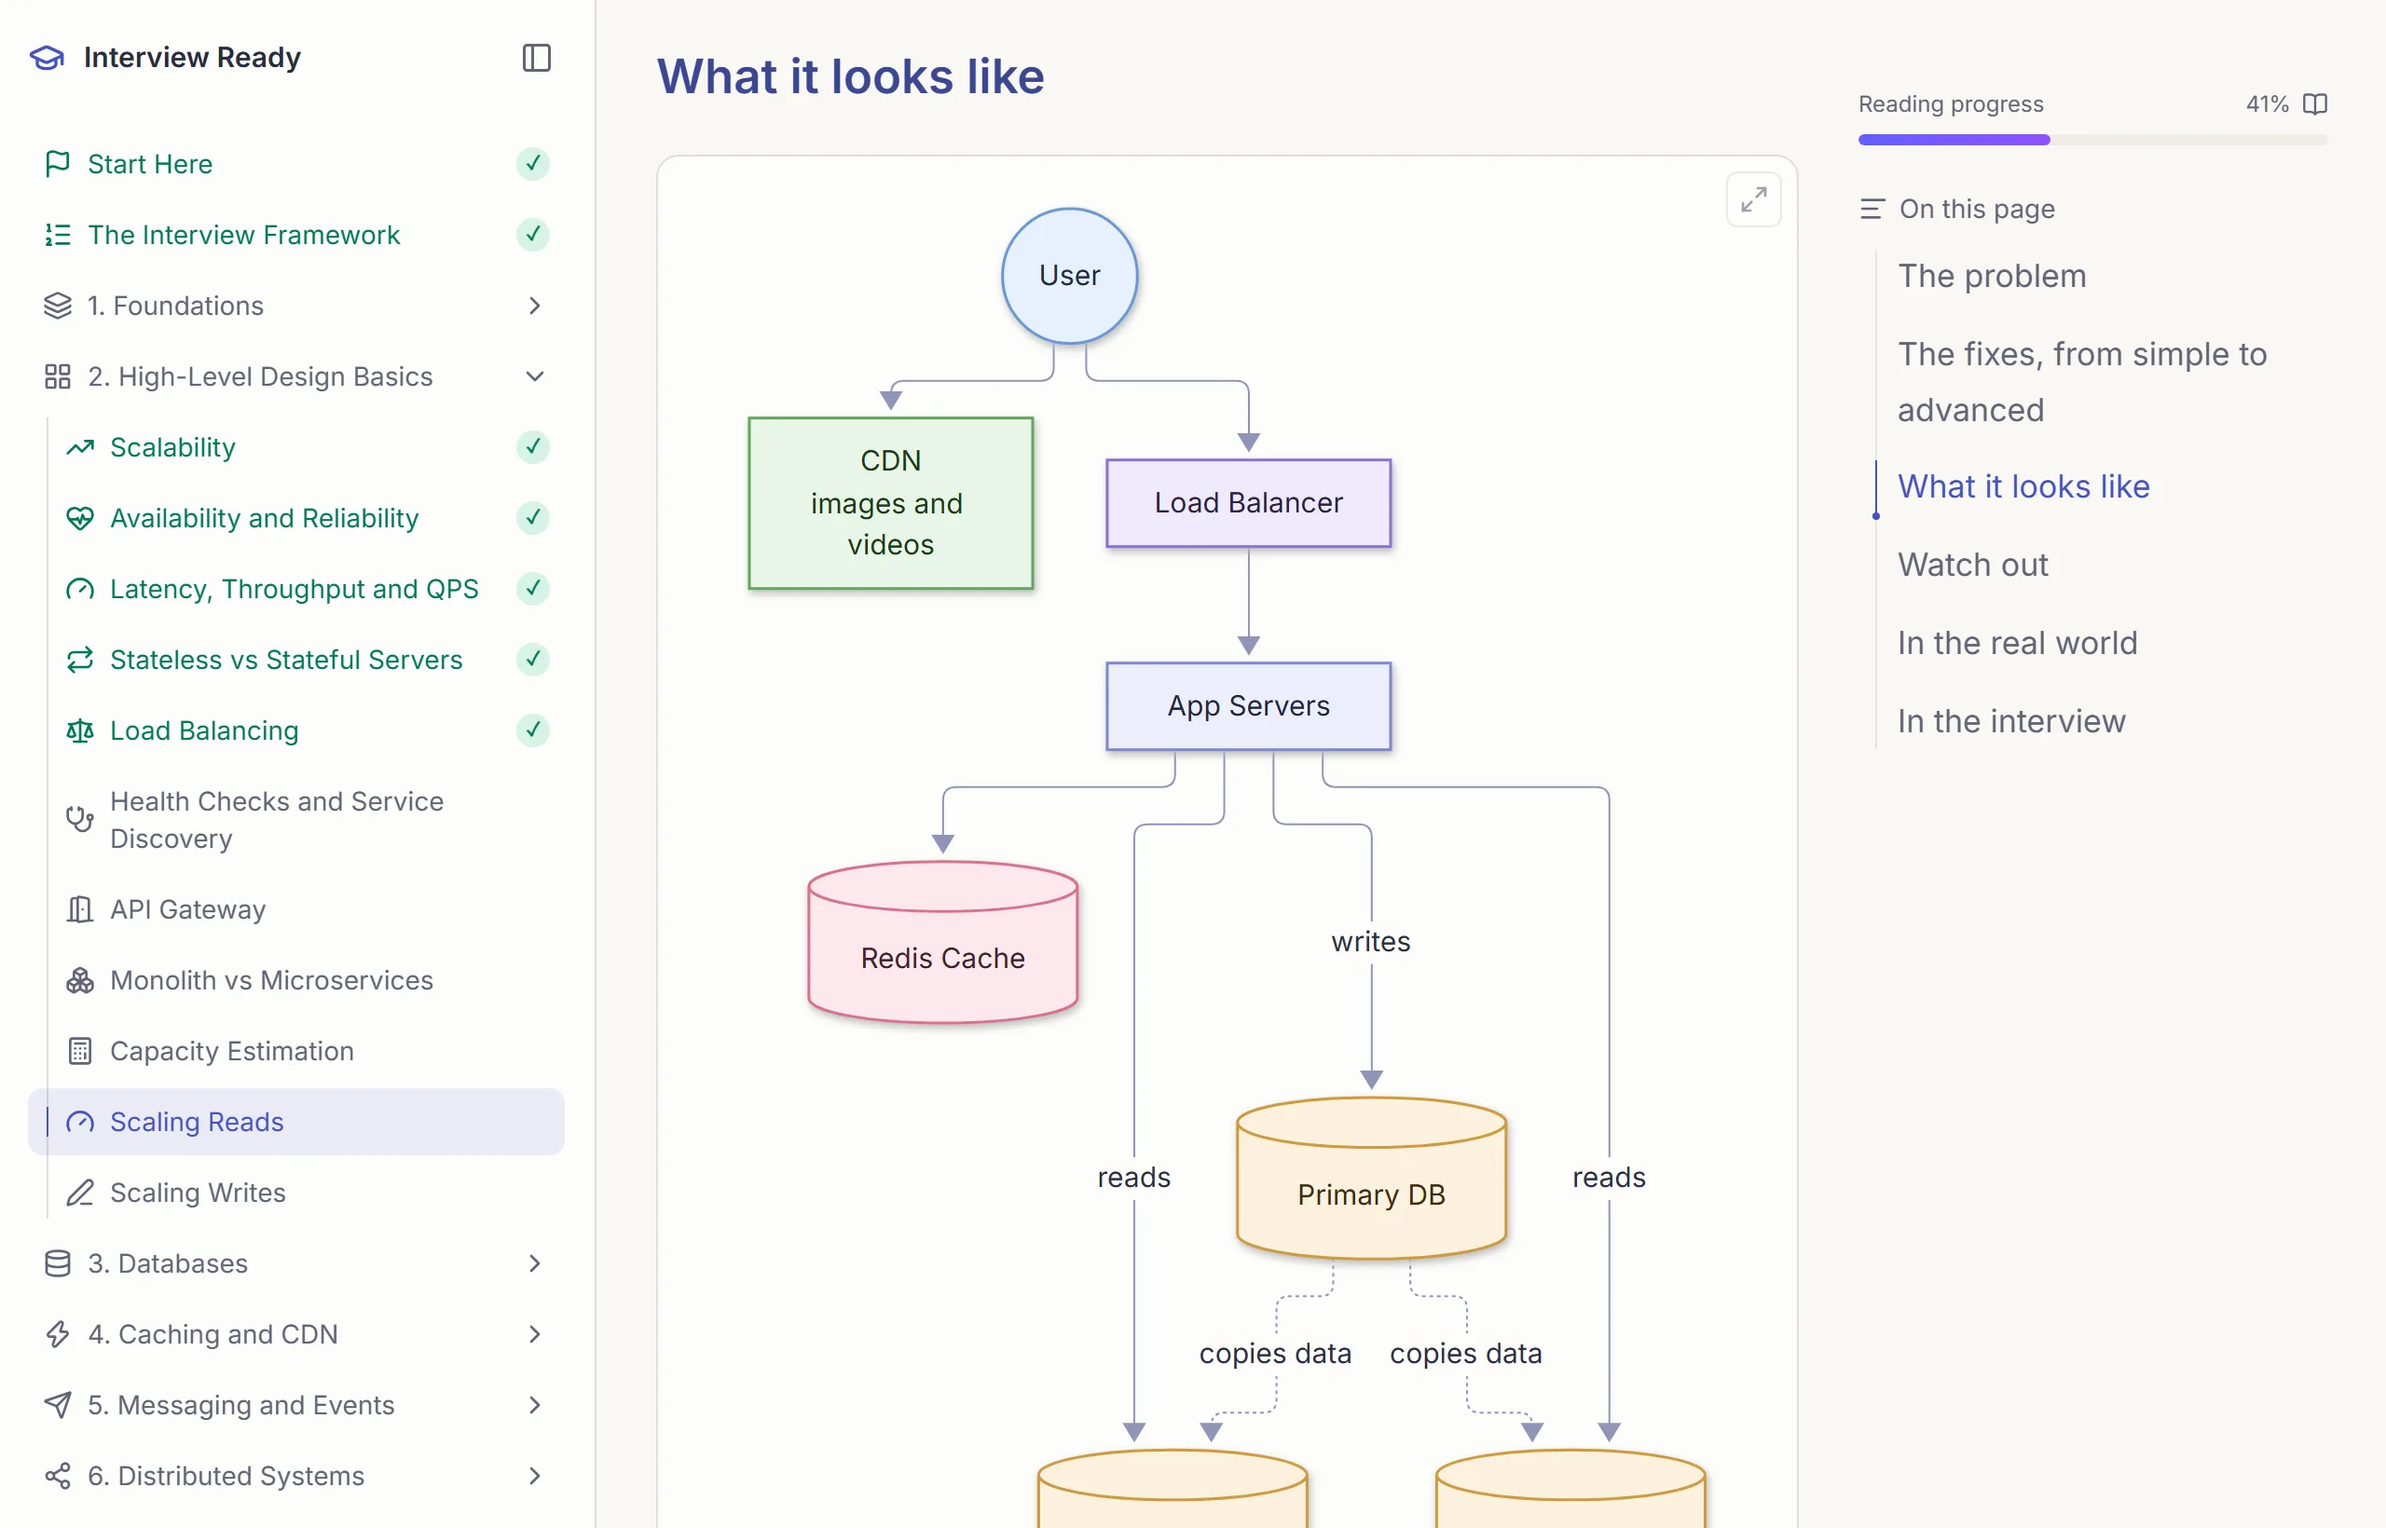
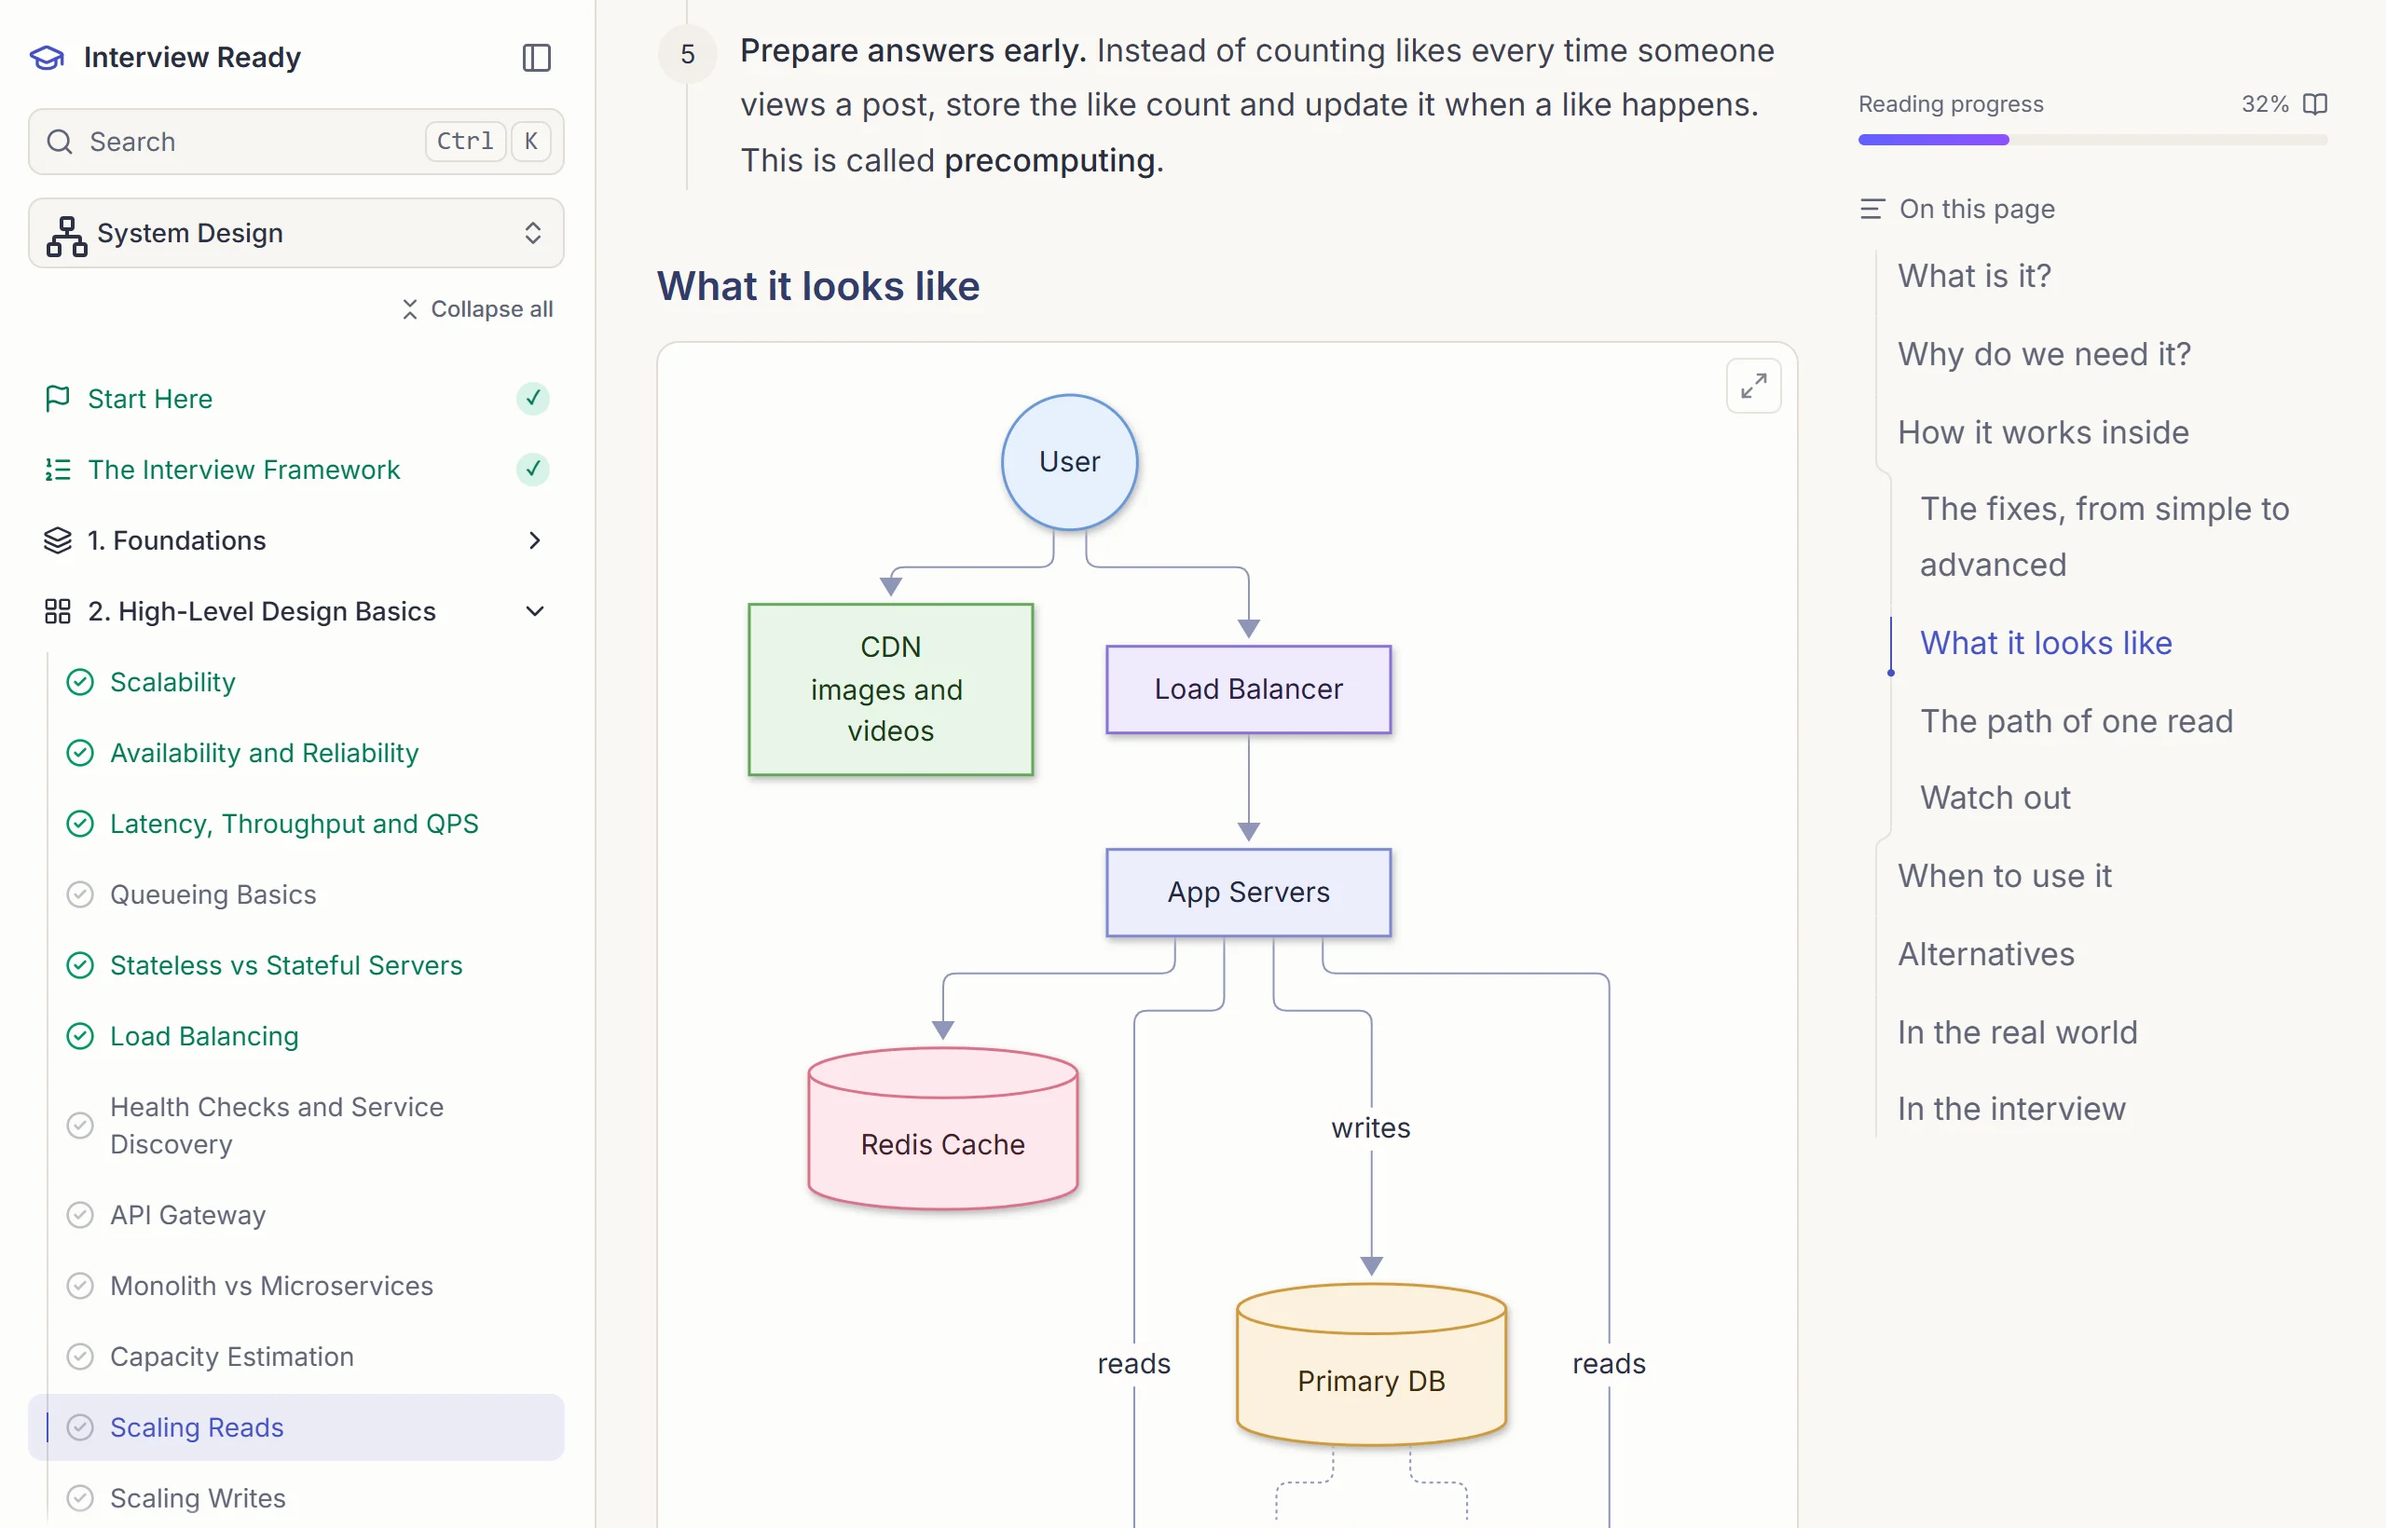
Retake the Interview Ready screenshots, and add one of React
All four screenshots retaken from the current site at the same size (2560 x 1640): the search, track switcher and JS Playground button now show. A React lesson on useEffect joins the gallery.

diff --git a/src/data/projects.js b/src/data/projects.js
@@ -478,6 +478,13 @@ export const projects = [
           width: 2560,
           height: 1640,
         },
+        {
+          src: "/images/projects/interview-ready/react-lesson.webp",
+          alt: "A React lesson on useEffect with a table of what each dependency array does, next to the React track's hooks in the sidebar",
+          caption: "React lessons stay at interview depth: the rule, the trap, and what to say.",
+          width: 2560,
+          height: 1640,
+        },
       ],
       outcomes: [
         "Live on Vercel's free plan, and every push to GitHub redeploys it",
